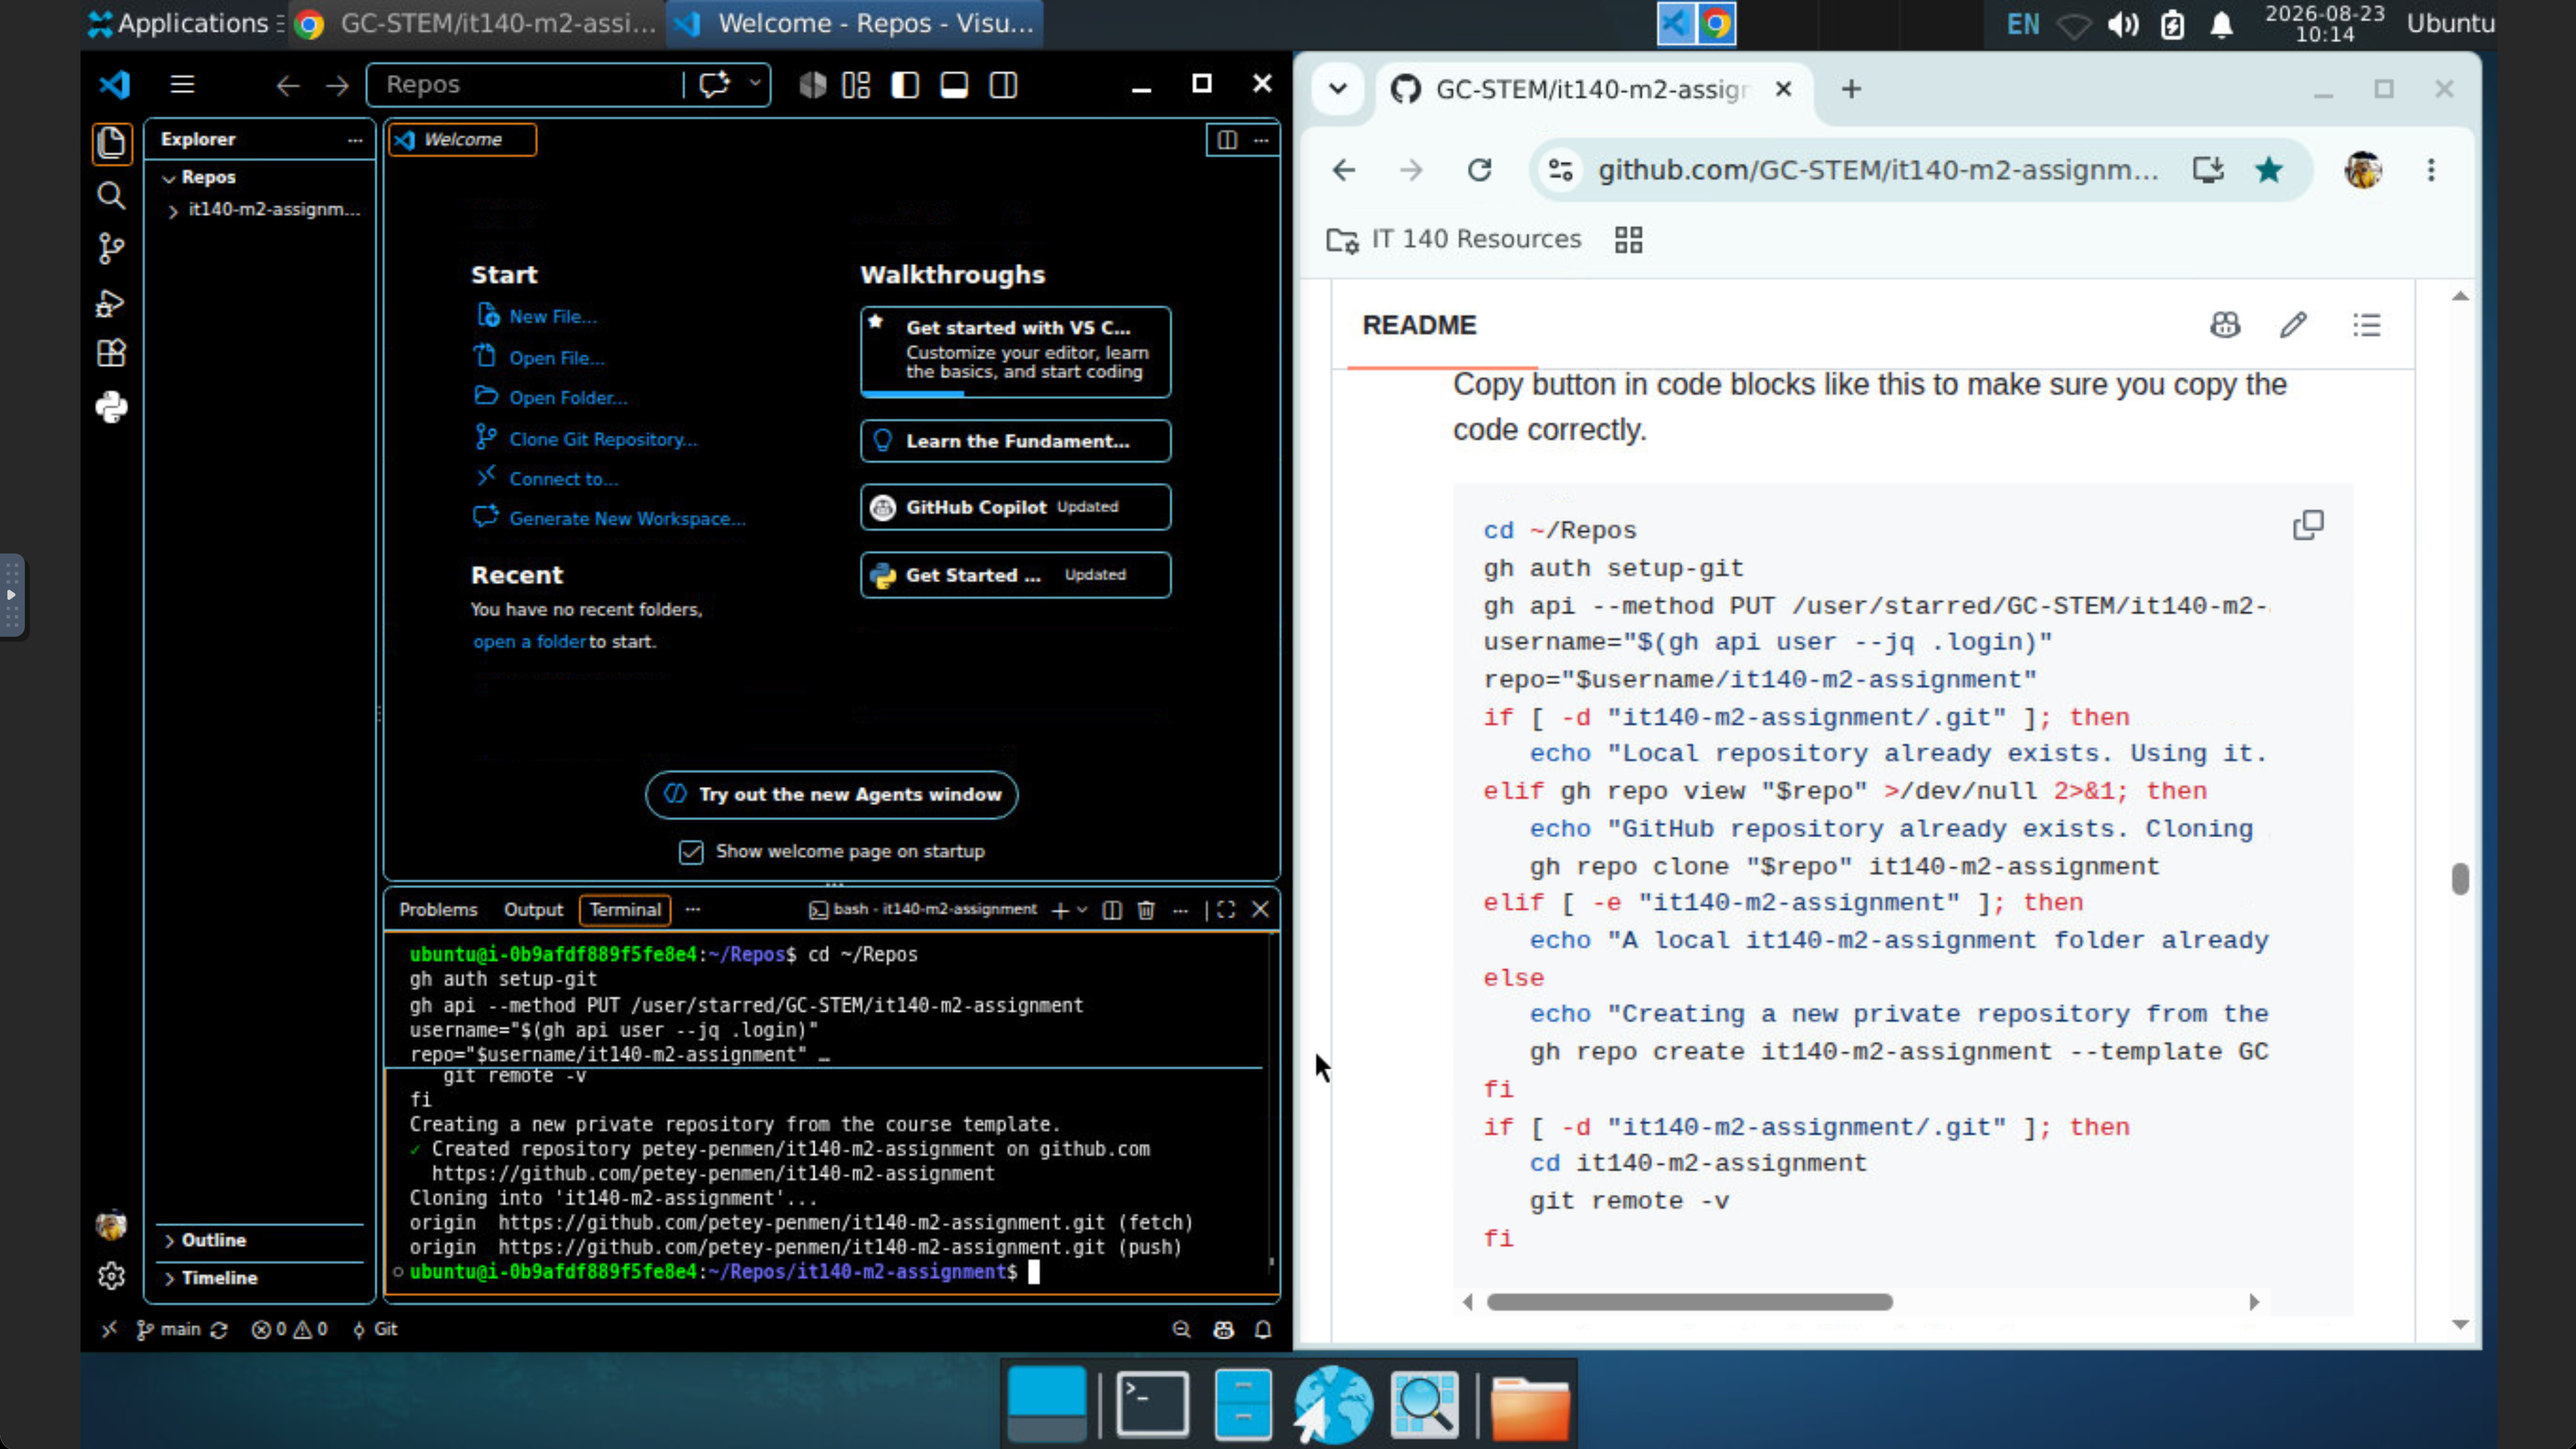
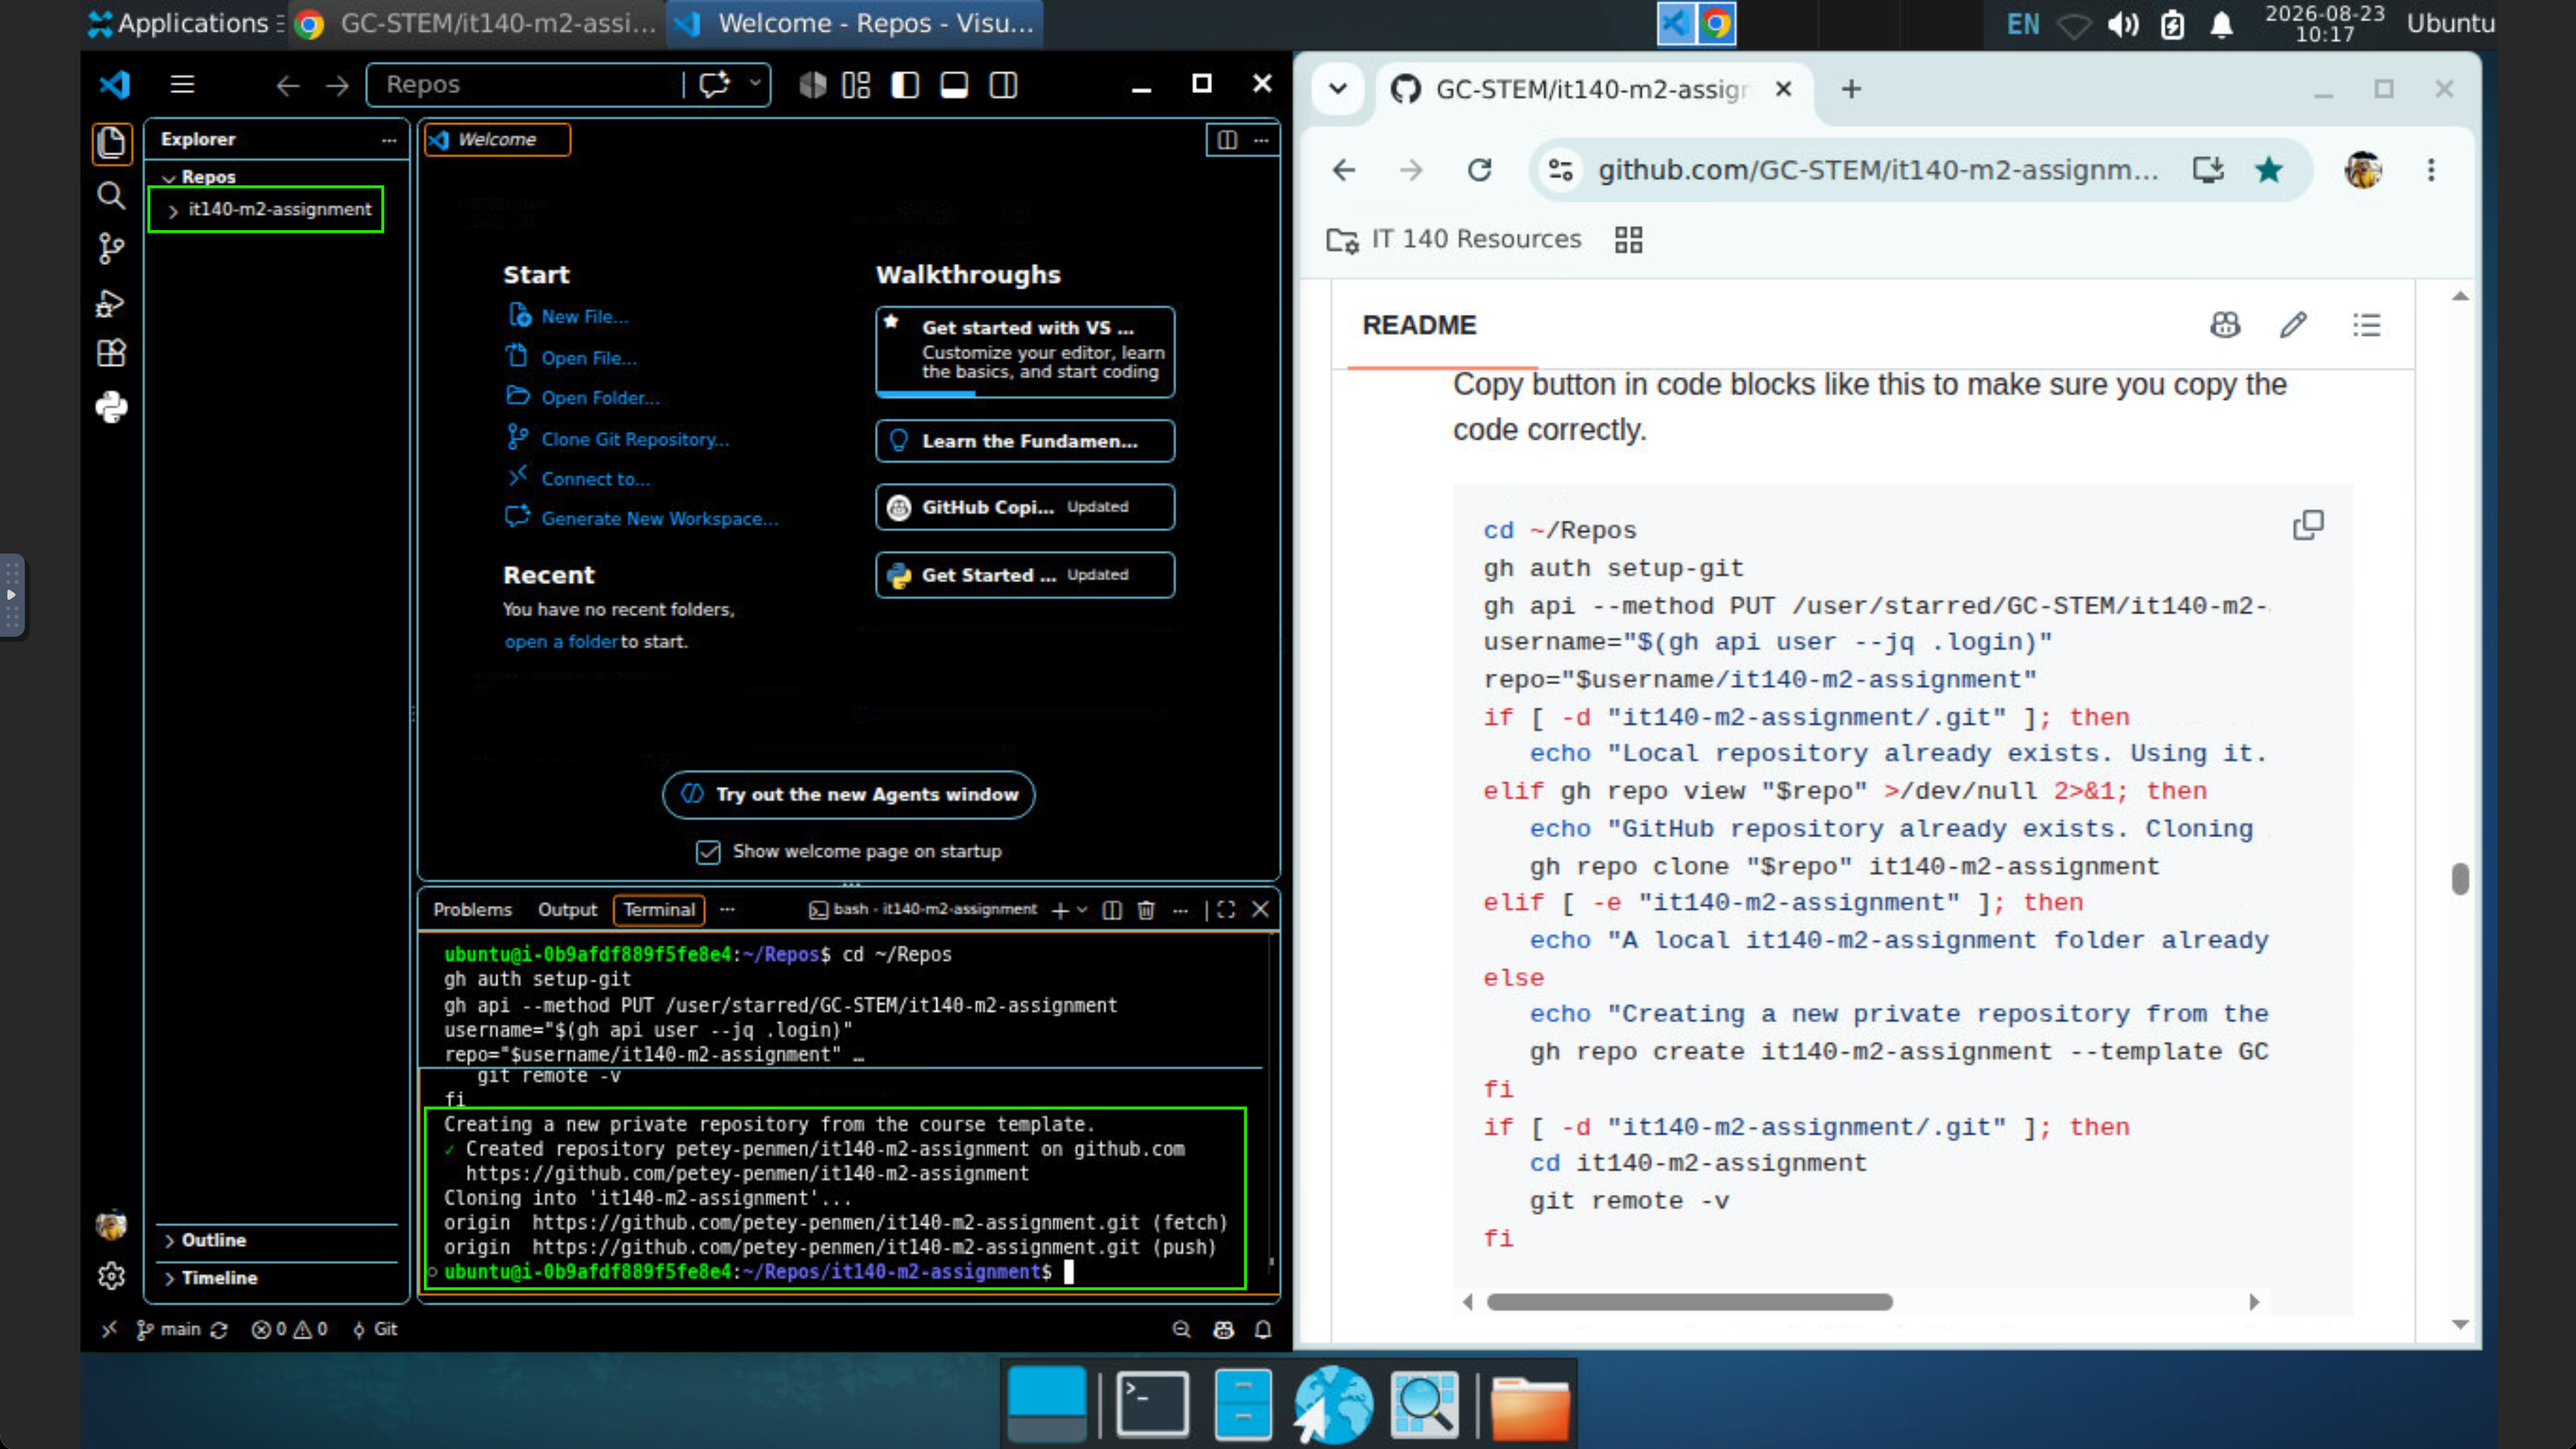
Update terminal paste images in README; remove outdated image and add new review image

diff --git a/README.md b/README.md
@@ -268,11 +268,13 @@ The following command block will:
 
 2. In the VS Code terminal pane, right-click at the end of the command prompt and select **Paste** from the popup menu. Press **Enter** to run the commands.
 
-   ![VS Code Terminal Paste](.github/assets/42a_vscode_terminal_paste.png)
+   ![VS Code Terminal Paste](.github/assets/42_vscode_terminal_paste.png)
 
    ![VS Code Terminal Run](.github/assets/42b_vscode_terminal_run.png)
 
 3. Review the final output and confirm that the repository belongs to **your GitHub account**.
+
+   ![VS Code Terminal Review](.github/assets/43_vscode_terminal_paste_review.png)
 
    - If a command reports an error, do not repeat the entire command block. Review the error message and use the [Help and Support](#help-and-support) resources before continuing.
 
